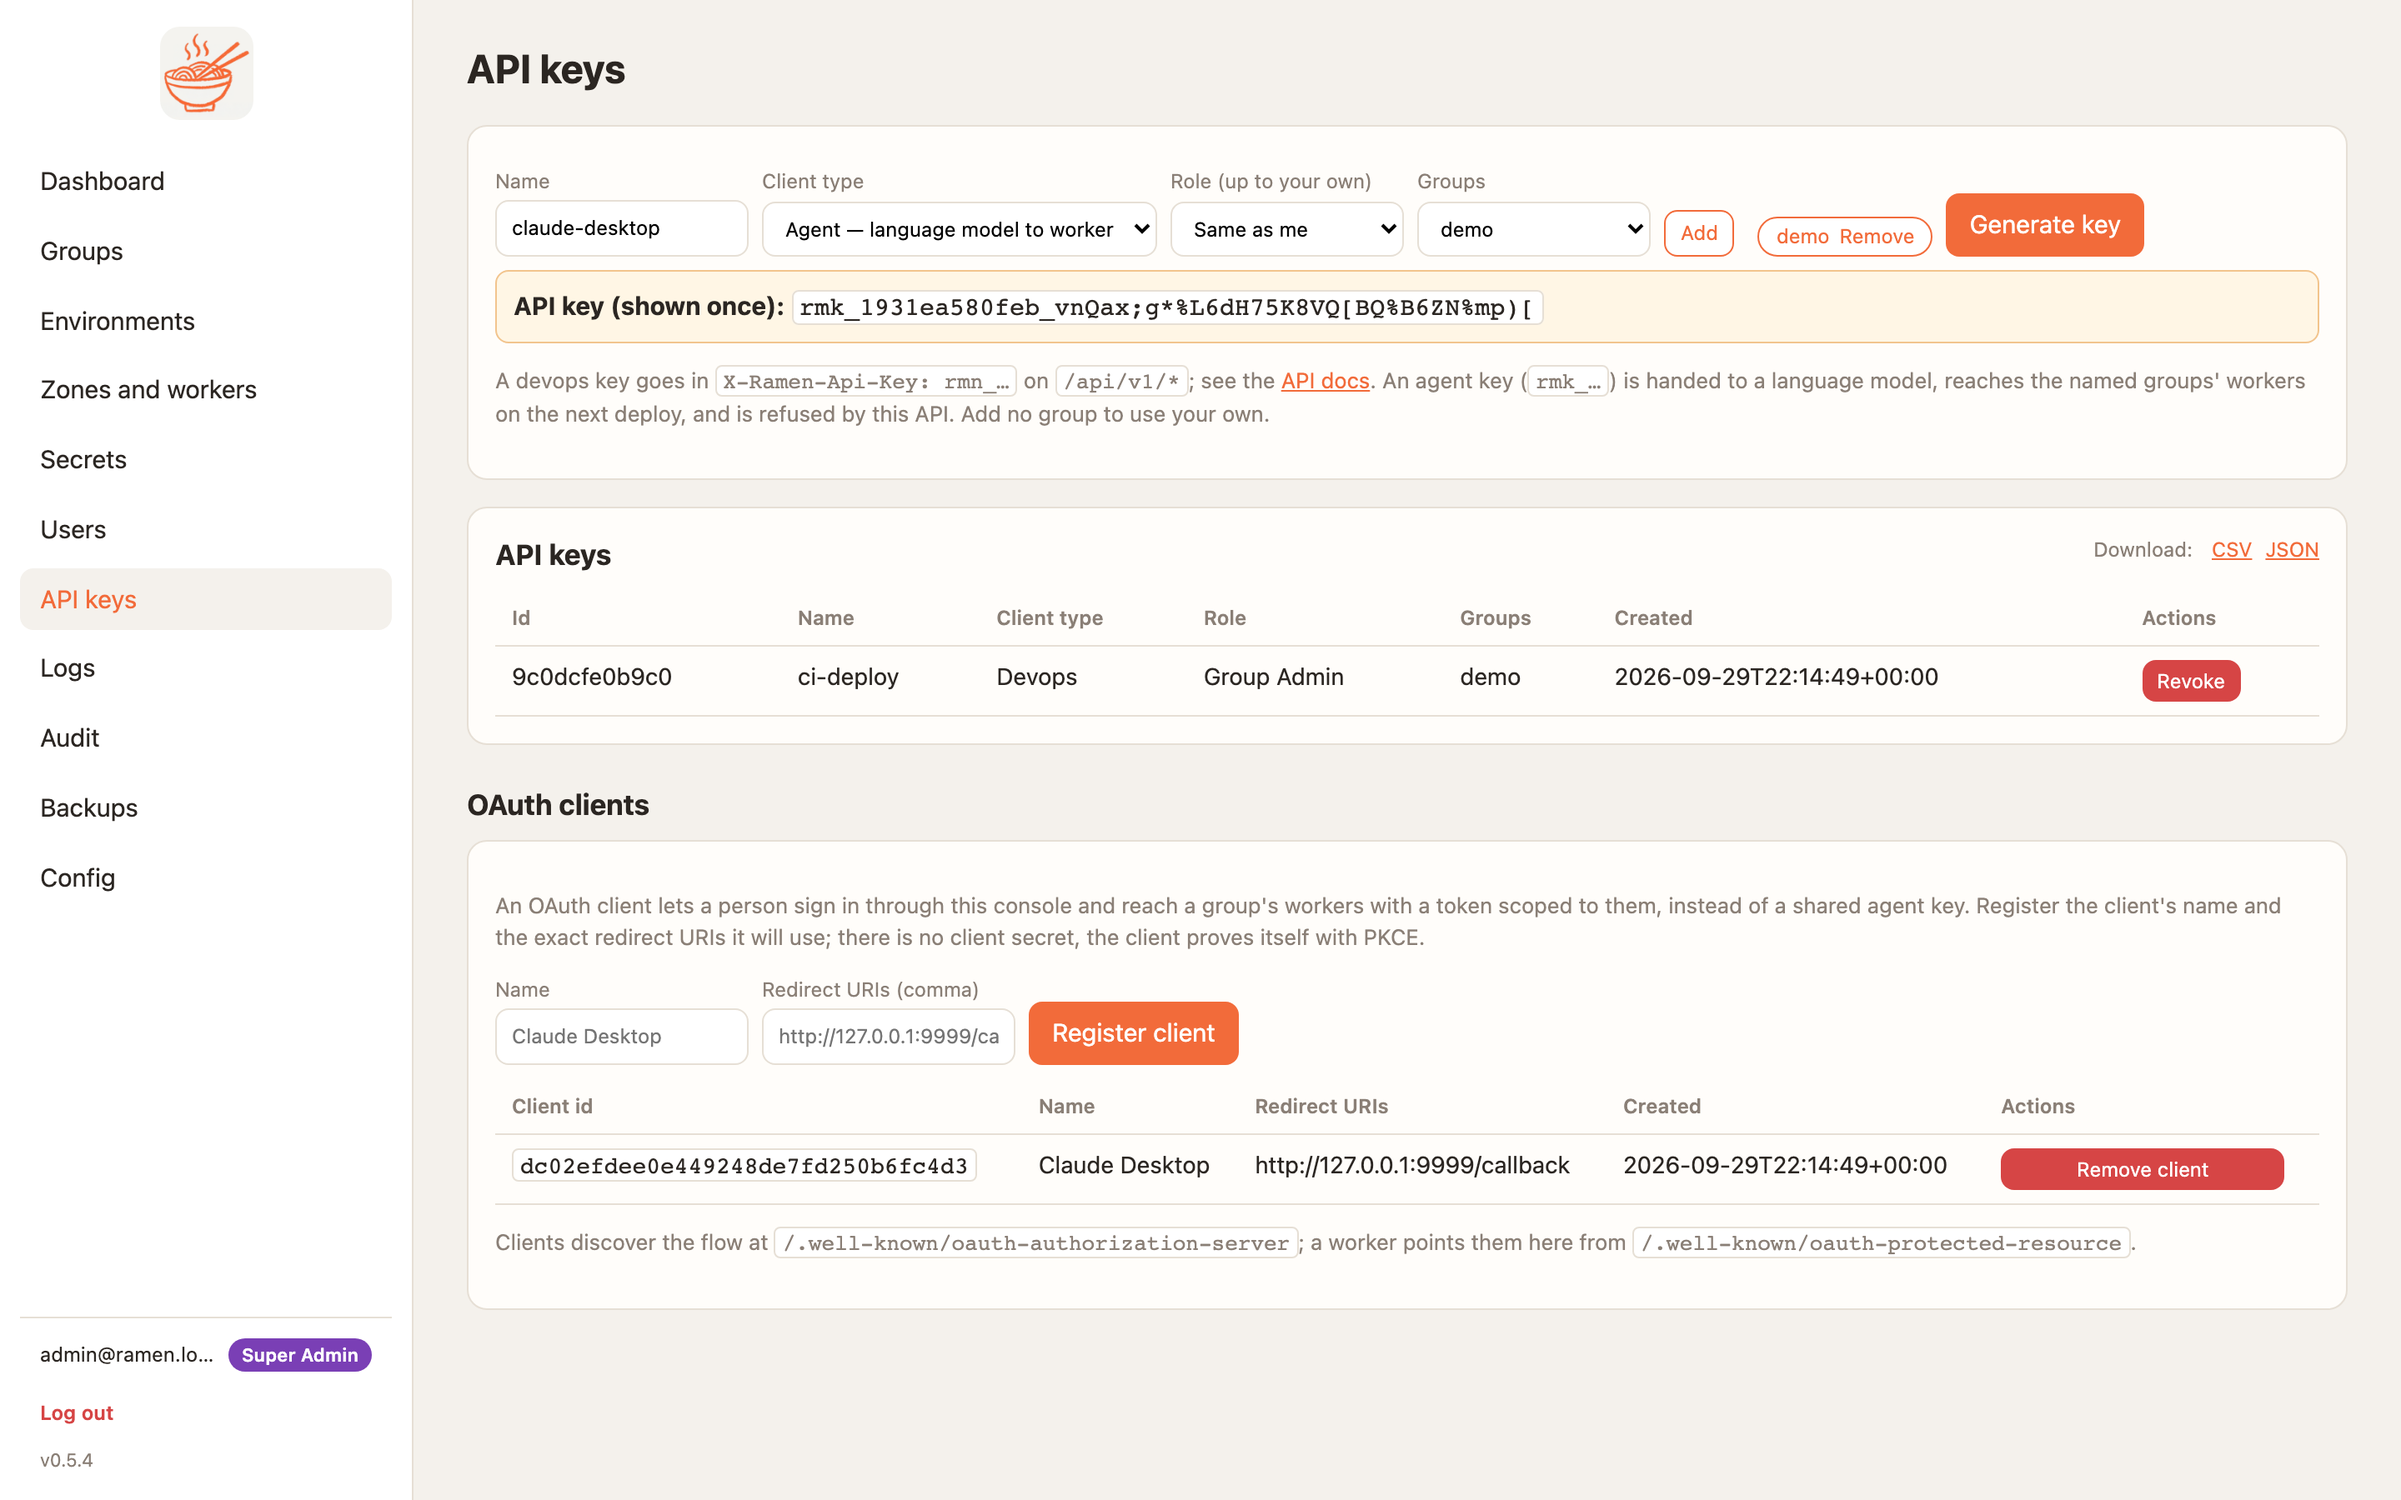
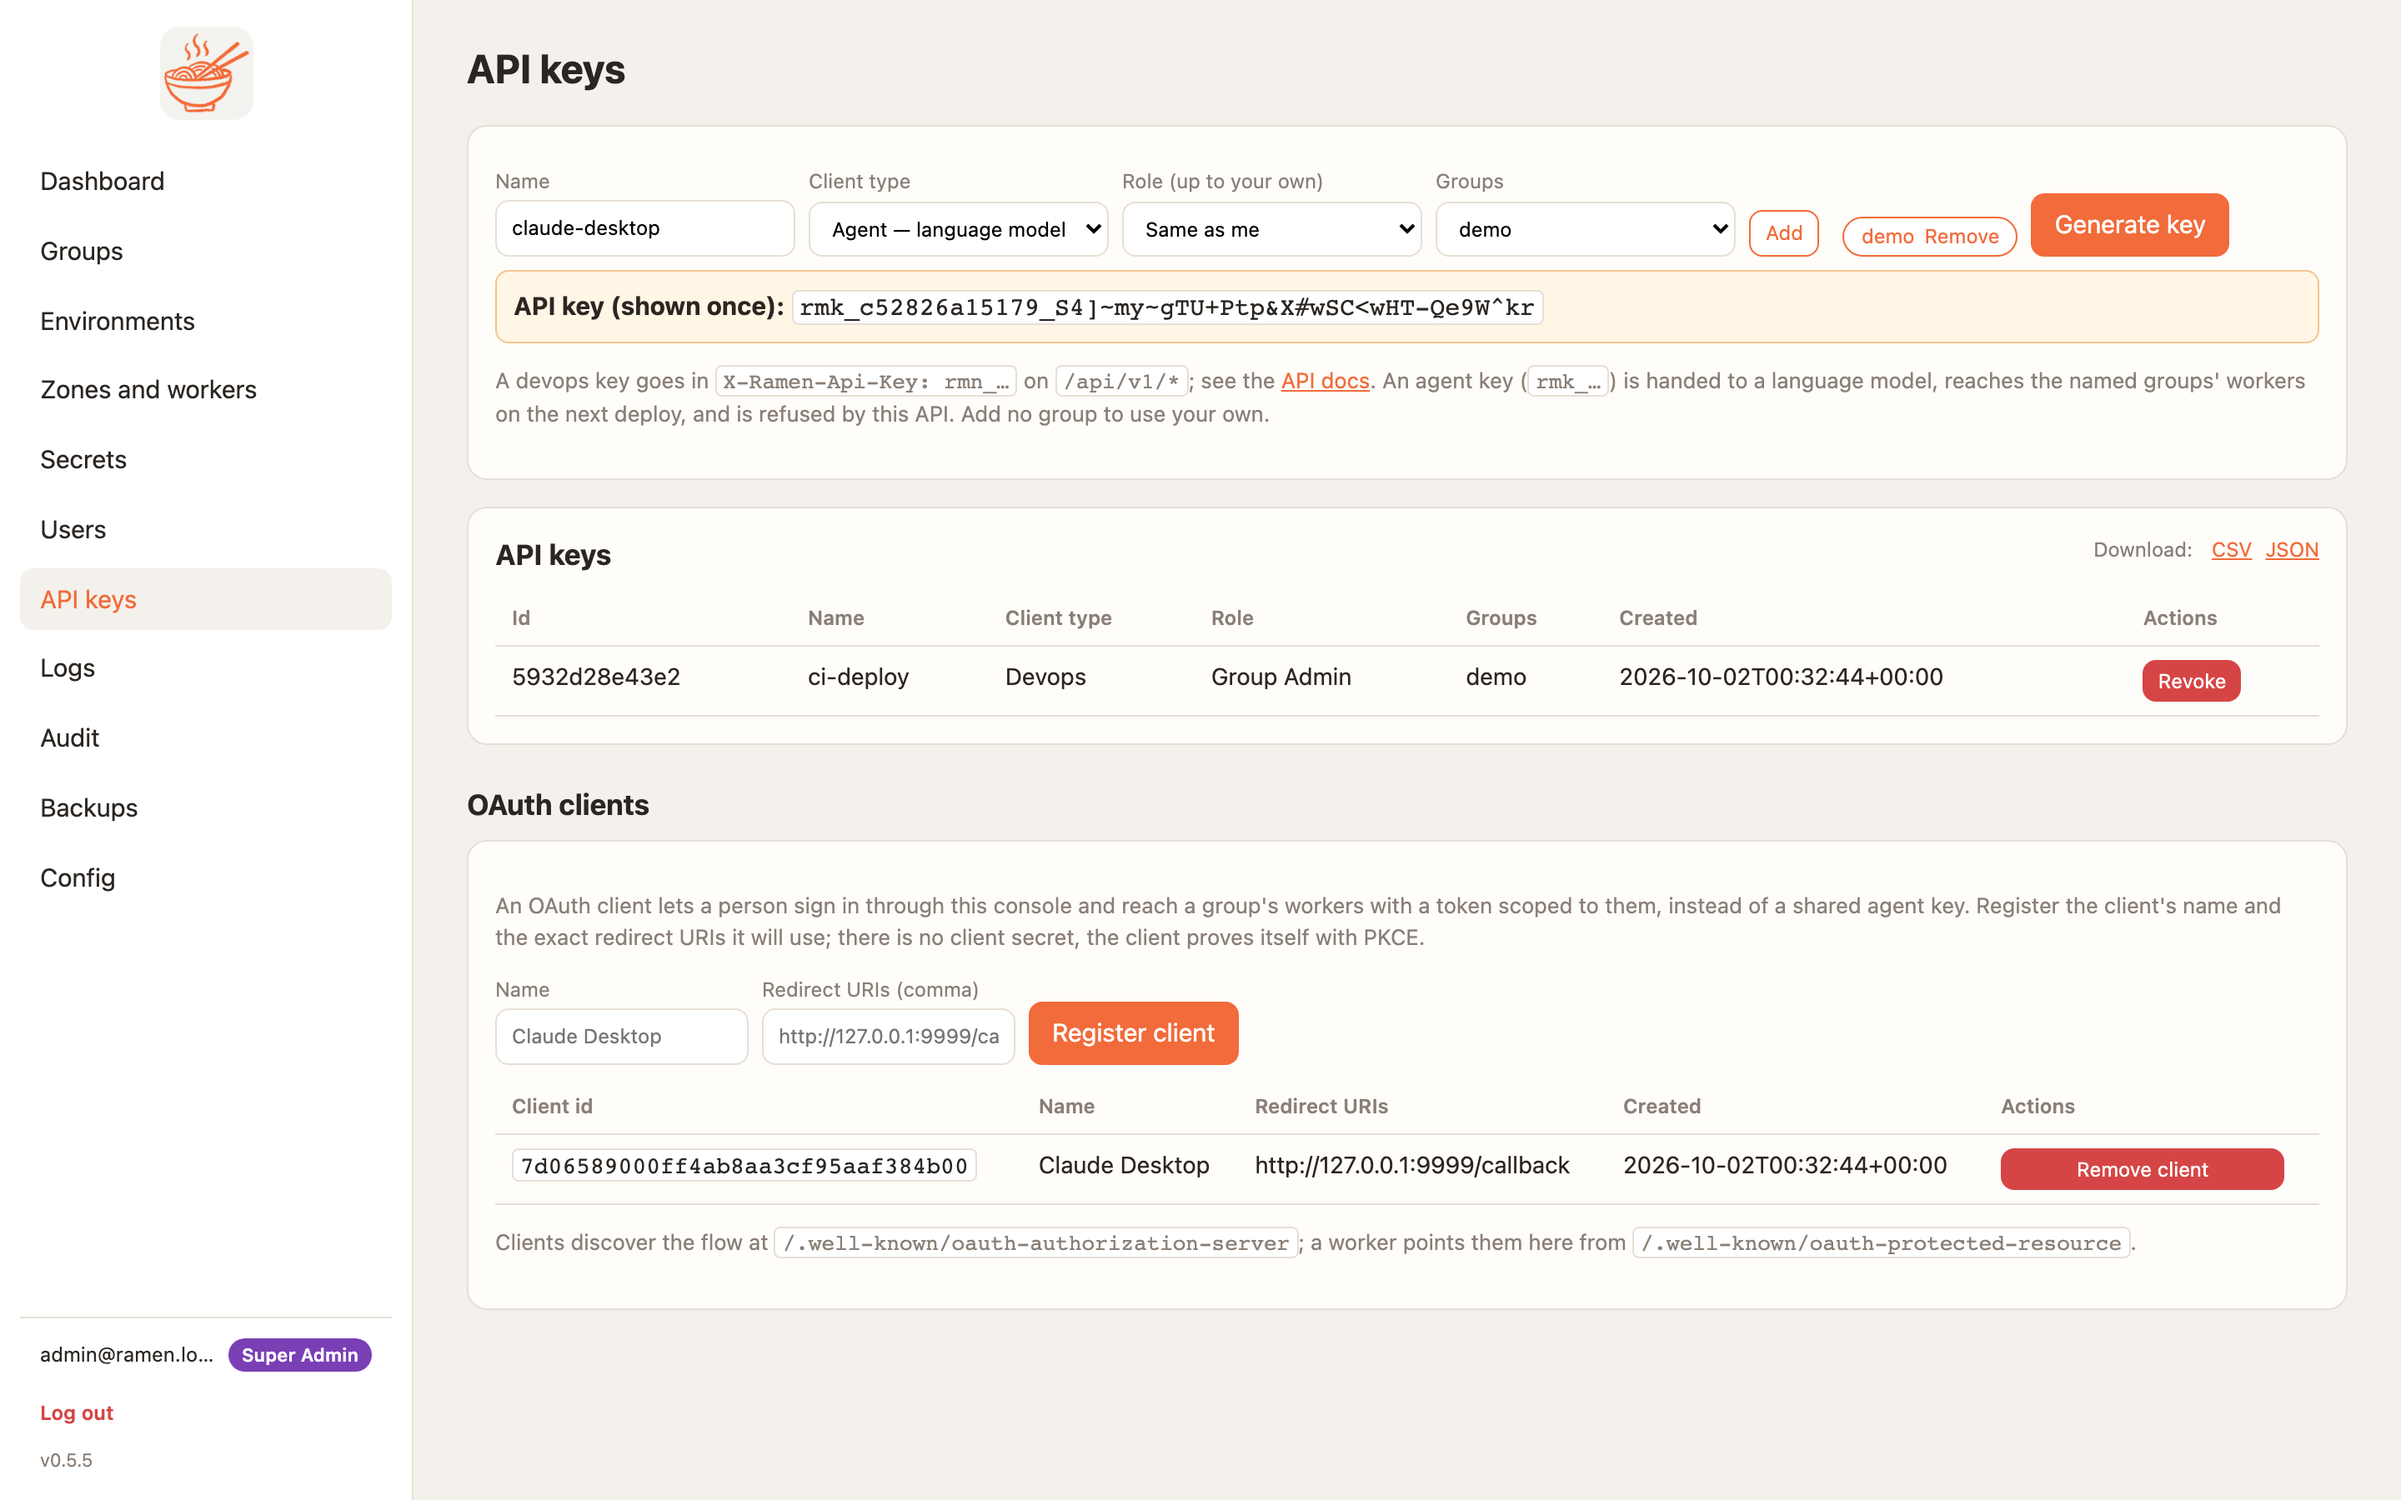
0.5.5 follow-up: recaptured screenshots, current ARCHITECTURE.md, I11 fully proven
Addresses gaps found on review after the main 0.5.5 commit:
- make shots recaptured all 14 console screenshots and bumped ui_contract to
  0.5.5 — the round changed 7 templates but neither had been updated, so the
  docs were silently showing pre-0.5.5 UI (the safety-net test only compares
  shots.json against itself, it doesn't detect template drift).
- ARCHITECTURE.md (repo root) was an orphaned duplicate still describing
  v0.3.1 (gRPC-only, self-signed cert, no OAuth, no Postgres); rewritten to
  match current reality and docs/architecture/index.md, which was already
  current.
- I11: completed the full bridge round-trip that was previously only proven
  at the TLS-handshake level. Second throwaway GKE project: cert serving
  confirmed (Google Trust Services issuer) and, after working through
  significantly slower-than-usual edge route propagation (~45 min from
  deploy to a working route, vs. documented precedent of 2-7 min), a real
  `ramen-mcp-bridge --tls` (no --ca) tools/call through the load balancer
  returned the correct result for 2+3. Infra was healthy and correctly
  configured throughout; this was purely GFE propagation latency, not a
  defect. Cleaned up identically to the first round.
- Full `deploy/kind/test.sh` default suite run end to end (40 tests, 45 min)
  for the first time this release; one failure was the same known leftover
  HPA-state artifact from back-to-back individual runs, confirmed not a
  regression.

diff --git a/CHANGELOG.md b/CHANGELOG.md
@@ -23,9 +23,10 @@ scrollable frame instead of 15 unbounded rows then a separate scrollbox.
 **TLS (D17 superseded)**: the console's GKE Gateway now provisions a Google-managed certificate automatically
 — a free `sslip.io` hostname derived from the load balancer's own static IP, no domain purchase required —
 instead of the D17 self-signed fallback. `ramen-mcp-bridge --tls` needs no `--ca` and no `kubectl` step
-against it; verified live end to end on a throwaway GKE project (cert reached `ACTIVE`, the console answered
-`200` over plain `curl` with no `-k`, issuer `Google Trust Services`). Self-signed remains available as an
-opt-out (`gateway.certificateMap` unset).
+against it; verified live end to end on two throwaway GKE projects (cert reached `ACTIVE`, the console
+answered `200` over plain `curl` with no `-k`, issuer `Google Trust Services`, and — on the second round —
+`ramen-mcp-bridge --tls` forwarded a real `demo_calculator_tool` call through the load balancer and got
+`5` back for 2+3). Self-signed remains available as an opt-out (`gateway.certificateMap` unset).
 
 **Storage**: Postgres joins Firestore and DynamoDB as a third `RAMEN_STORE` backend (self-hosted/on-prem use,
 D2/G1 partly superseded) — one table, four methods, no migrations. Found and fixed during testing: the
